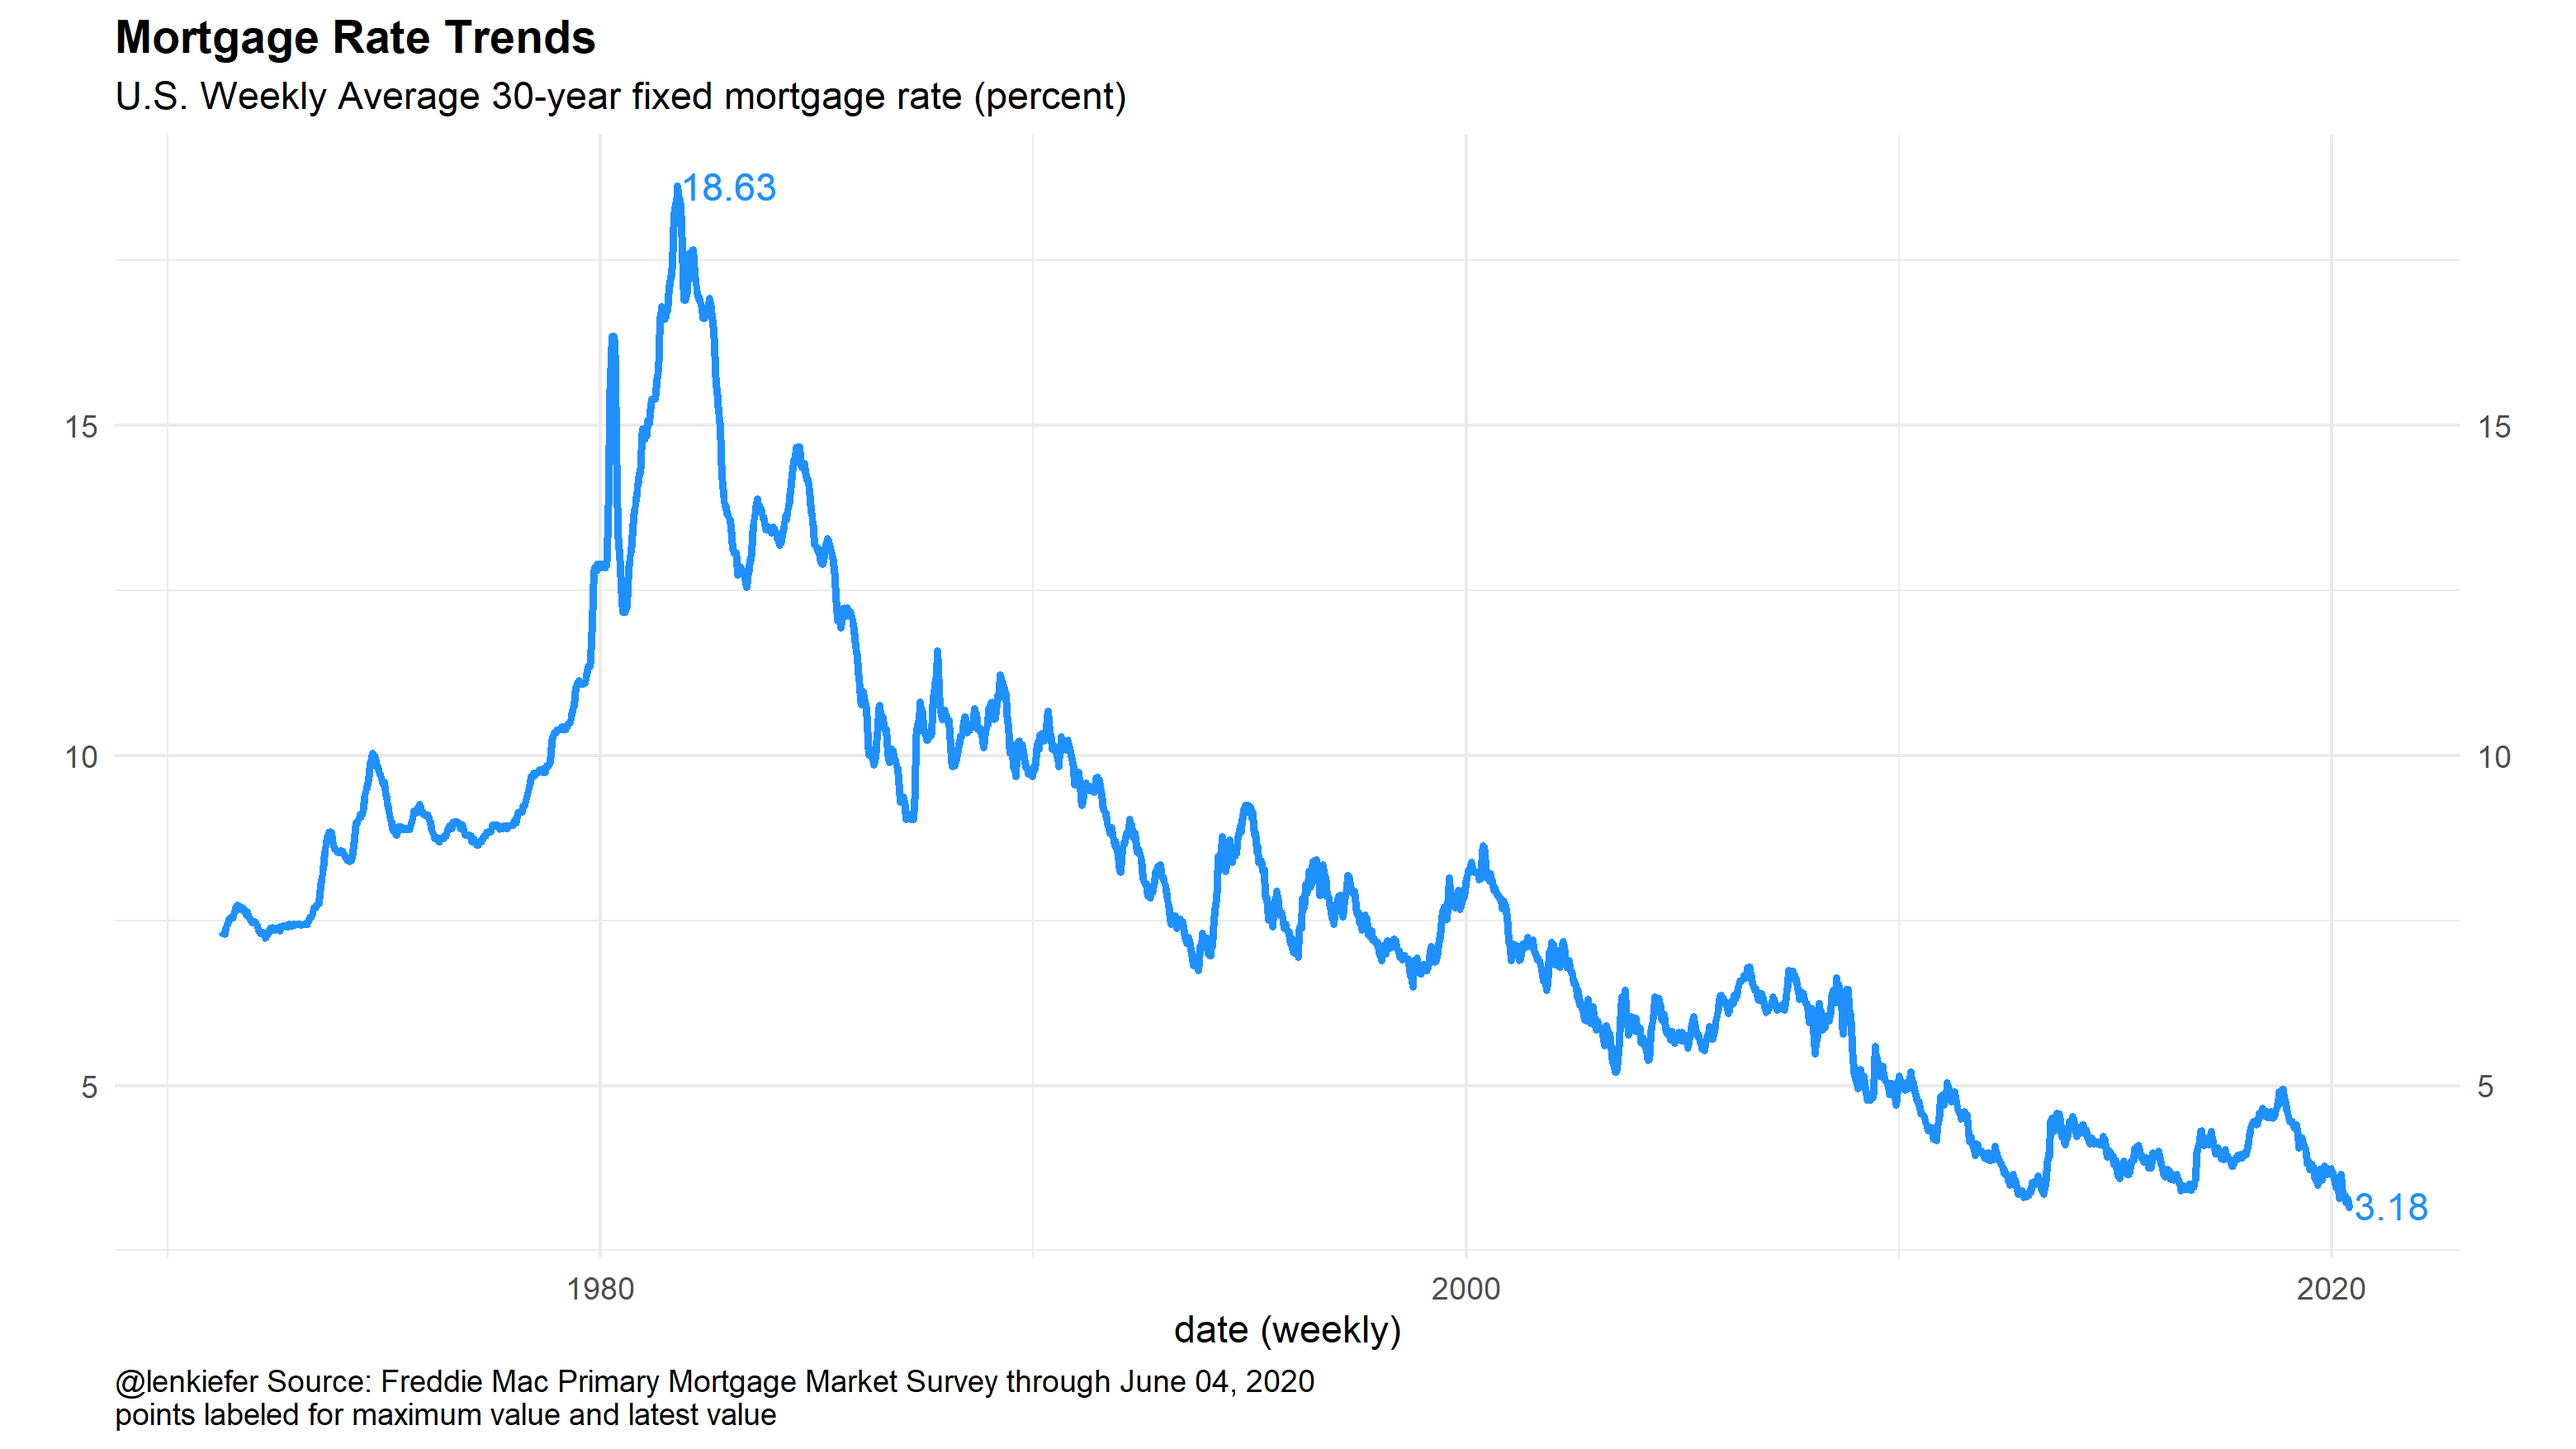
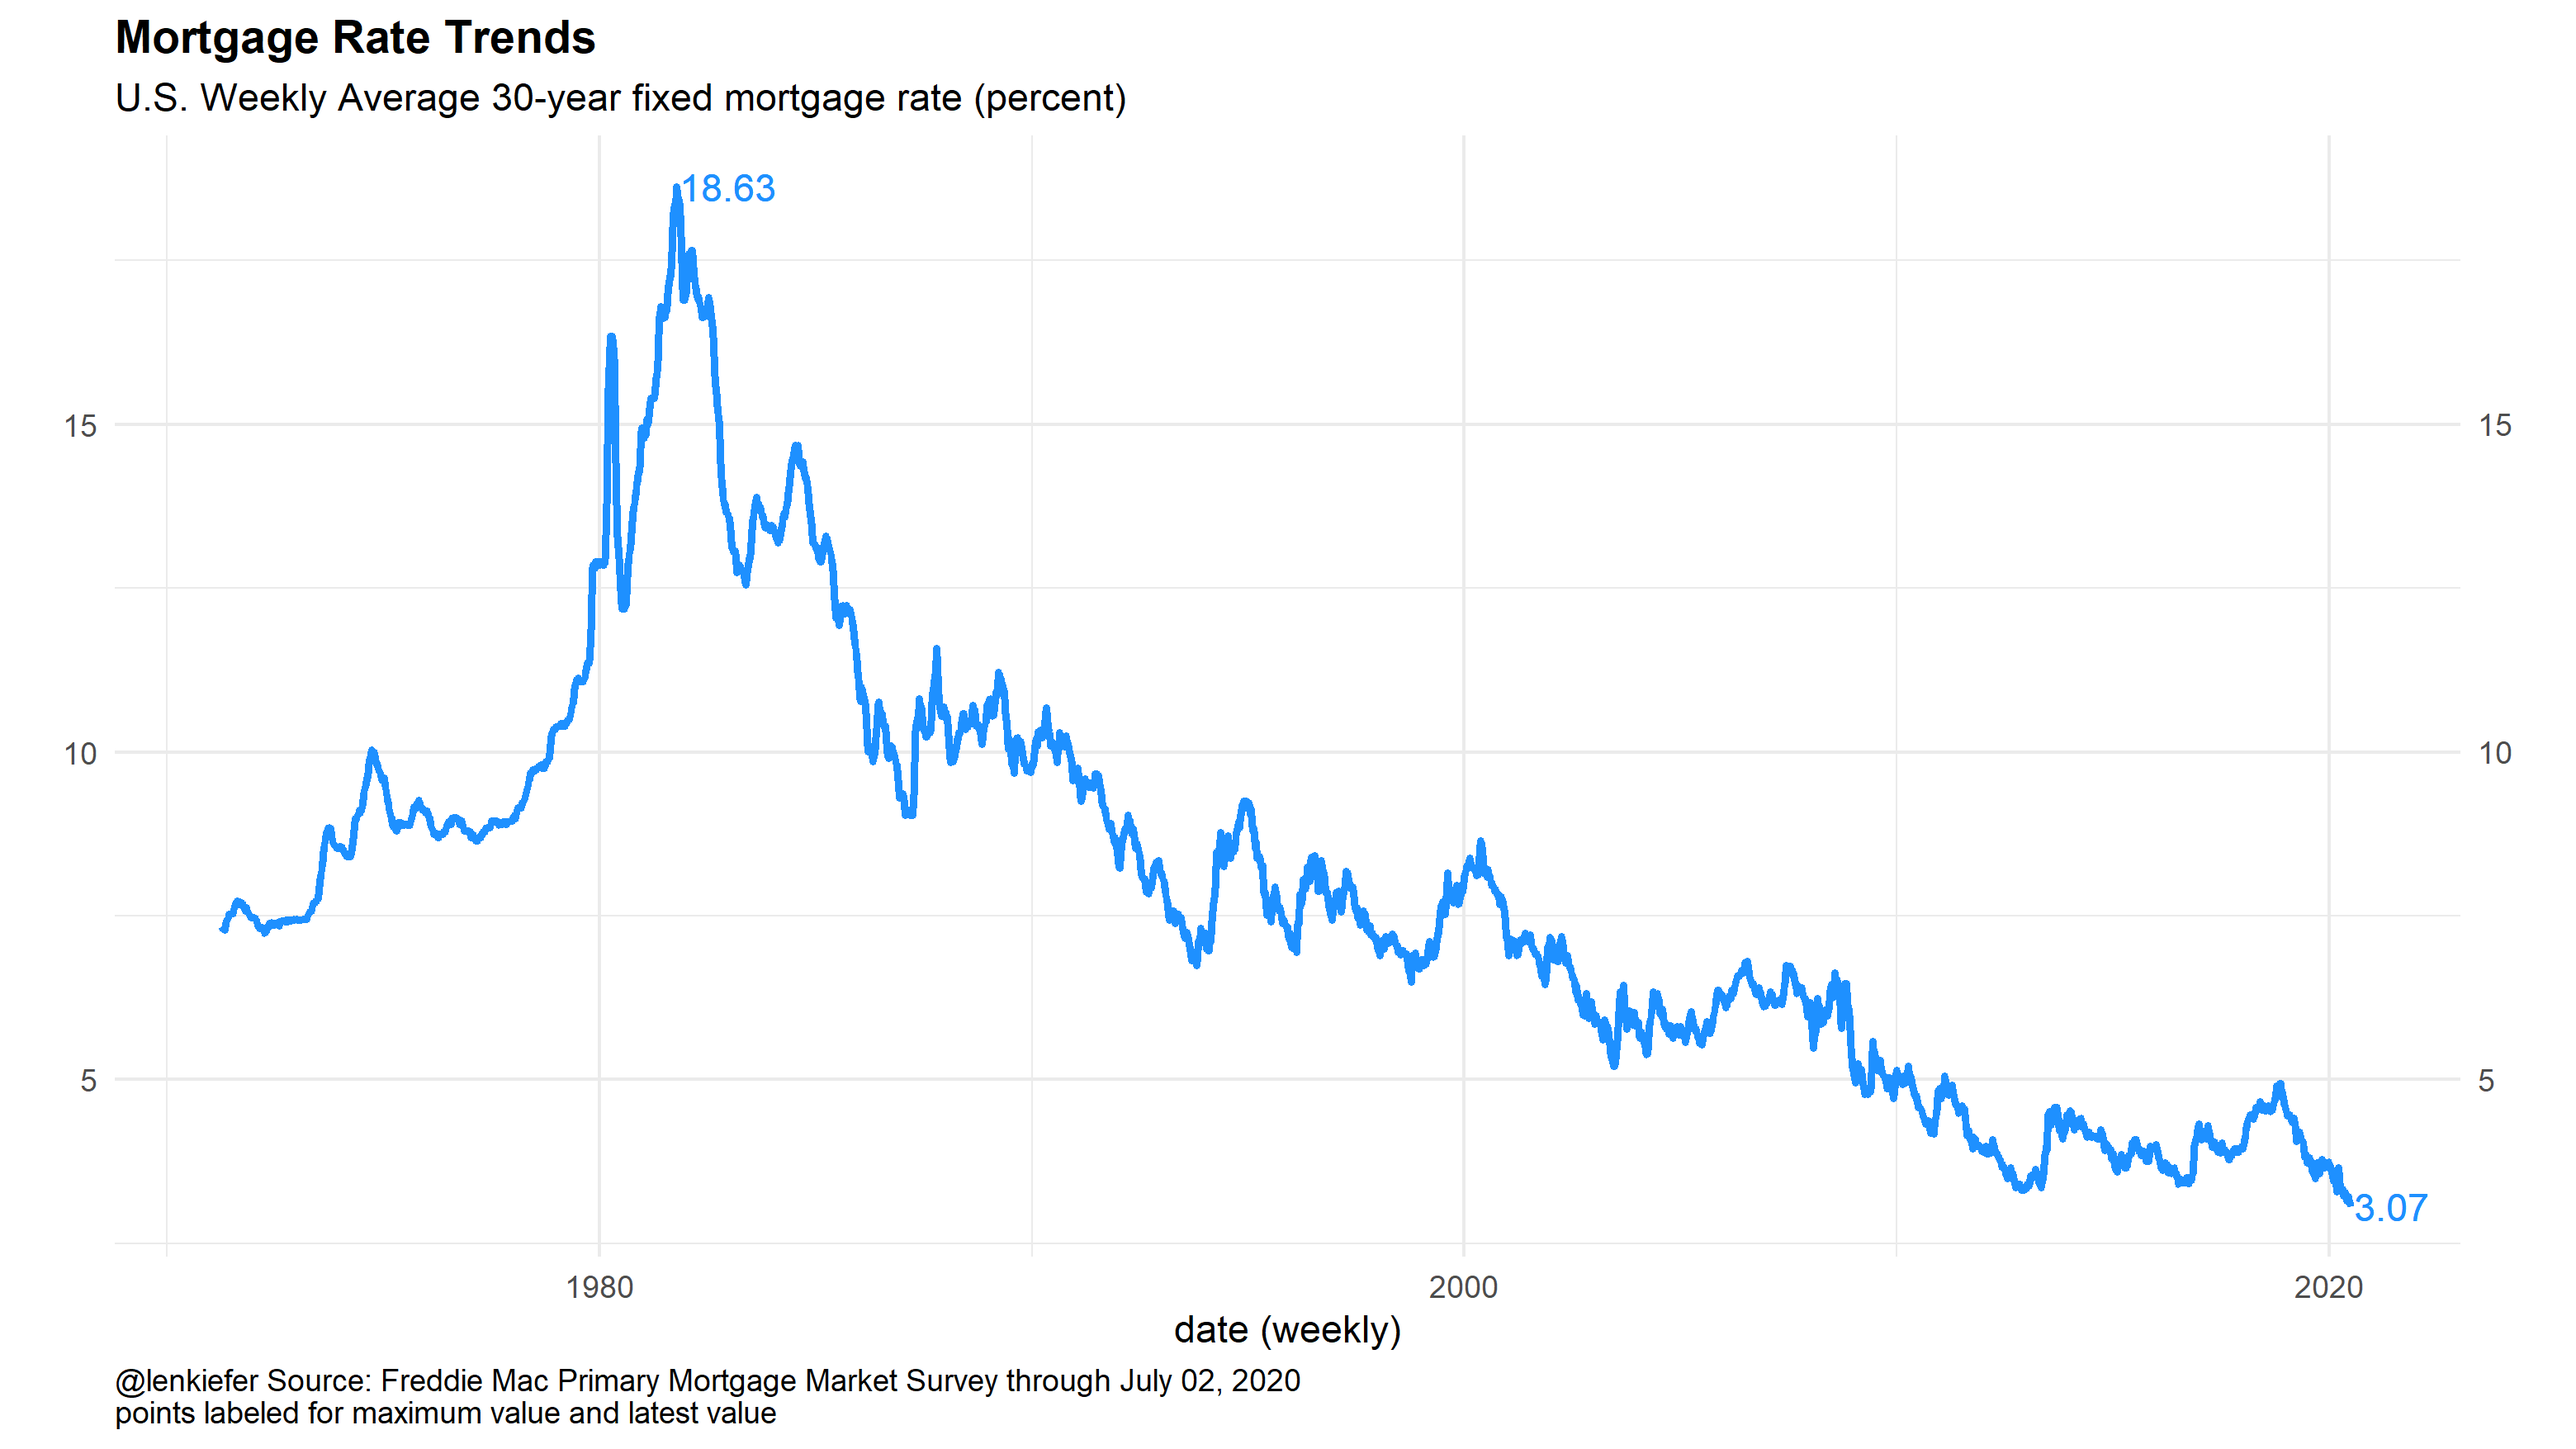
viz updates july 2020

diff --git a/2020/04/20/updated-favorite-data-visualizations/index.html b/2020/04/20/updated-favorite-data-visualizations/index.html
@@ -252,12 +252,12 @@
 <p>Your favorite chart isn’t here? Let me know and maybe I can add it.</p>
 <div id="mortgage-rates" class="section level1">
 <h1>Mortgage Rates</h1>
-<p><em>Last updated 2020-06-06</em></p>
+<p><em>Last updated 2020-07-02</em></p>
 <p>Post <a href="../../../../2019/10/10/visualizing-consumer-price-inflation-and-mortgage-rates/">Visualizing consumer price inflation and mortgage rates</a></p>
 <p><img src="../../../../img/favorites/mtg.png" style="width:550px"></p>
-<p><em>Last updated 2020-06-06</em></p>
+<p><em>Last updated 2020-07-02</em></p>
 <p>Post <a href="../../../../2020/04/30/mortgage-rates-hit-a-record-low/">Mortgage rates hit a record low</a>
-<strong>Another record low on 2020-05-28</strong></p>
+<strong>Another record low on 2020-07-02</strong></p>
 <p><img src="../../../../img/favorites/mtg_trend.png" style="width:550px"></p>
 <p><img src="../../../../img/favorites/mtg_trend.gif" style="width:550px"></p>
 </div>
@@ -265,9 +265,9 @@
 <h1>U.S. Employment Charts</h1>
 <p><em>Last updated 2020-06-06</em></p>
 <p>Post <a href="../../../../2020/06/06/presentation-quadfecta-and-jobs-friday-2020/">Jobs Friday June 2020</a></p>
-<p><img src="../../../../img/charts_2020_06_20/jg_2020_06.png" style="width:450px"></p>
-<p><img src="../../../../img/charts_2020_06_20/cjg_2020_06.png" style="width:450px"></p>
-<p><img src="../../../../img/charts_2020_06_20/pridge_2020_06.png" style="width:450px"></p>
+<p><img src="../../../../img/favorites/jg.png" style="width:450px"></p>
+<p><img src="../../../../img/favorites/cjg.png" style="width:450px"></p>
+<p><img src="../../../../img/favorites/pridge.png" style="width:450px"></p>
 </div>
 <div id="jobless-claims-animations" class="section level1">
 <h1>Jobless claims animations</h1>
